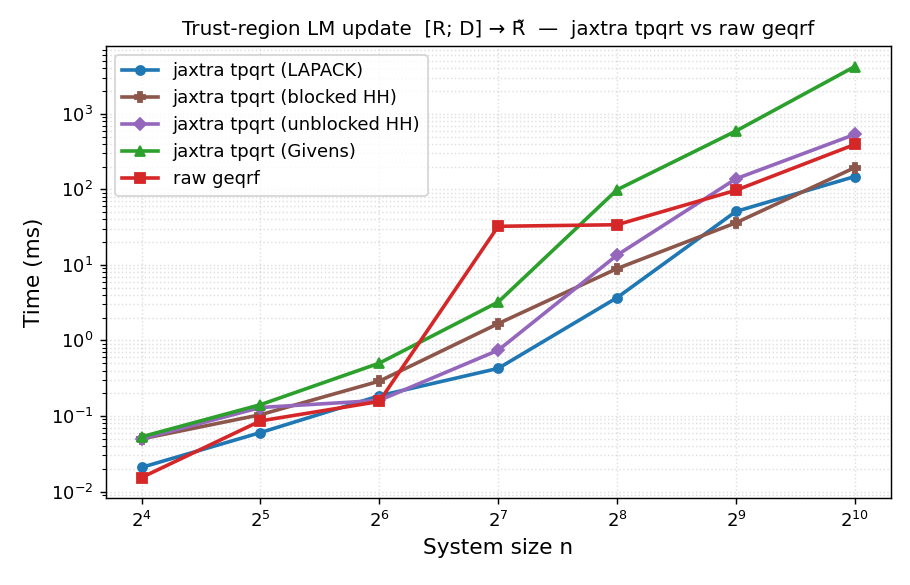
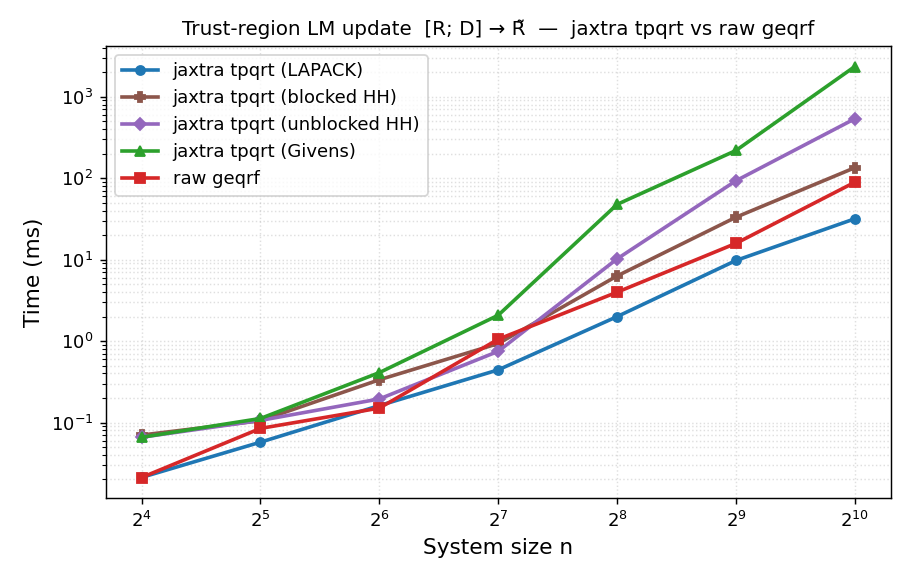
perf: rolling-window scan Givens (no dynamic_slice)
Carries the n-row ghost window and rolls it each sweep — drop the (now-zero)
eliminated bottom row, concat the incoming row on top — instead of re-slicing
it out of a padded array. This removes the per-sweep dynamic_slice/
dynamic_update_slice entirely (only a static [:-1] slice + concat remain); R is
still rotated whole with diag(R) pivots, and the initial window is the bottom
trapezoid with the rectangular top + padding streamed in.

Roughly halves the Givens time (n=1024: ~4226 -> ~2350 ms; n=512: ~592 -> ~219
ms), confirming dynamic_slice was the dominant overhead. It remains ~4x slower
than the unblocked Householder fallback and ~17x slower than blocked
Householder: each Givens sweep updates two full n x n arrays (R and the rolling
window) plus a concat, vs Householder's single B update (matvec + rank-1), and
the rotations are bandwidth-bound BLAS-1 row scalings rather than the cache- and
SIMD-friendly BLAS-2/3 of (blocked) Householder. Blocked Householder stays the
production fallback.

Claude-Session: https://claude.ai/code/session_01Aj8oNz6aLvSocZHjG7B84h

diff --git a/jaxtra/_src/lax/linalg.py b/jaxtra/_src/lax/linalg.py
@@ -683,18 +683,19 @@ def _tpqrt_pentagonal_mask(m, n, l, dtype):
 def _tpqrt_givens_2d(a, b, l):
   """Pure-JAX diagonal-sweep Givens triangularisation of ``[a; b]`` (unbatched).
 
-  Eliminates the pentagonal block ``b`` (``m`` "ghost" rows) into the upper
-  triangular ``a`` (``n`` rows) one *diagonal* at a time. In sweep ``o``, pivot
-  row ``R[j, j]`` is paired with ghost row ``j - o``: every rotation uses a
-  distinct pivot row and a distinct ghost row, so the whole sweep is a single
-  rotation of ``R`` against ``W`` shifted by ``o``. The pivot is then literally
-  R's natural diagonal ``diag(R)``, ``R`` is rotated *whole* (never sliced or
-  reordered, no gather/scatter), and only ``b`` is zero-padded and slid — a
-  contiguous ``dynamic_slice`` window into the padded ghost block.
+  Eliminates the pentagonal block ``b`` into the upper triangular ``a`` one
+  *diagonal* at a time. In sweep ``o`` the pivot row ``R[j, j]`` is paired with
+  ghost row ``j - o``; every rotation uses a distinct pivot and ghost row, so a
+  sweep is one rotation of ``R`` (whole, pivots = ``diag(R)``) against an
+  ``n``-row window of the ghost block.
 
-  Sweep ``o`` runs over ``[-(m - max(l, 1)), n - 1]``; it zeros the ``o``-th
-  diagonal of ``W`` (``W[r, r+o]``) and fills the next, which sweep ``o + 1``
-  clears, so after the last sweep ``W`` is zero.
+  Rather than re-slicing that window out of a padded array each sweep, we
+  *carry* it and roll it: the window's bottom row has just been fully
+  eliminated (it leaves as zero), so the next window is ``concat([incoming,
+  window[:-1]])`` — a static slice and a concat, no ``dynamic_slice``, gather or
+  scatter anywhere. The initial window is the bottom trapezoid of ``b``; the
+  ``incoming`` rows streamed in are its rectangular top (if any) then zero
+  padding.
 
   Eliminating a *diagonal* (each entry against its own pivot ``R[j, j]``) is the
   vectorisable step; eliminating a *column* (every entry against the single
@@ -709,25 +710,24 @@ def _tpqrt_givens_2d(a, b, l):
   R = jnp.triu(a)
   W = b * _tpqrt_pentagonal_mask(m, n, l, dtype)
 
-  # Sweep offsets o = j - r between pivot row j and ghost row r. Pad the ghost
-  # block so that "ghost row j - o for j = 0 .. n-1" is a fixed-size window:
-  # ghost index j - o ranges over [-(n-1), (n-1) - o_min].
-  o_min = -(m - max(l, 1))
-  nrounds = n - o_min
-  pad_top = n - 1                       # ghost indices down to -(n-1)
-  pad_bot = max(0, n - max(l, 1))       # ghost indices up to (n-1) - o_min
-  Wpad = jnp.zeros((pad_top + m + pad_bot, n), dtype).at[pad_top:pad_top + m].set(W)
+  # Stack the ghost block with zero padding so the rolling window starts on the
+  # bottom trapezoid and rolls upward through the rectangular top + padding.
+  pad_top = n - 1
+  pad_bot = max(0, n - max(l, 1))
+  total = pad_top + m + pad_bot
+  Wpad = jnp.zeros((total, n), dtype).at[pad_top:pad_top + m].set(W)
+  window0 = Wpad[total - n:]                       # bottom trapezoid window
+  incoming = Wpad[:total - n][::-1]                # rows streamed in, top-down
+  xs = jnp.concatenate([incoming, jnp.zeros((1, n), dtype)], 0)  # last unused
 
-  def sweep(carry, o):
-    R, Wpad = carry
-    # Ghost row paired with R row j is W[j - o]; gather as a contiguous window.
-    W_al = jax.lax.dynamic_slice(Wpad, (pad_top - o, 0), (n, n))
-    piv_R = jnp.diagonal(R)                       # R's natural diagonal
-    piv_W = jnp.diagonal(W_al)                    # W[j - o, j]
+  def sweep(carry, inc):
+    R, window = carry
+    piv_R = jnp.diagonal(R)                         # R's natural diagonal
+    piv_W = jnp.diagonal(window)                    # current ghost diagonal
     absf = jnp.abs(piv_R)
     absg = jnp.abs(piv_W)
     r = jnp.sqrt(absf * absf + absg * absg)
-    do = absg != 0                                # nothing to zero otherwise
+    do = absg != 0                                  # nothing to zero otherwise
     safe_r = jnp.where(r == 0, 1, r)
     safe_absf = jnp.where(absf == 0, 1, absf)
     phase = jnp.where(absf == 0, jnp.ones_like(piv_R),
@@ -736,13 +736,13 @@ def _tpqrt_givens_2d(a, b, l):
     s = jnp.where(do, phase * conj(piv_W) / safe_r.astype(dtype),
                   jnp.zeros_like(piv_W))
     # Unitary rotation G = [[c, s], [-conj(s), c]] zeroing piv_W against piv_R.
-    newR = c[:, None] * R + s[:, None] * W_al
-    newW = -conj(s)[:, None] * R + c[:, None] * W_al
-    Wpad = jax.lax.dynamic_update_slice(Wpad, newW, (pad_top - o, 0))
-    return (newR, Wpad), None
+    newR = c[:, None] * R + s[:, None] * window
+    newW = -conj(s)[:, None] * R + c[:, None] * window
+    # Drop the fully-eliminated bottom row, stream in the next row on top.
+    window = jnp.concatenate([inc[None], newW[:-1]], 0)
+    return (newR, window), None
 
-  offsets = o_min + jnp.arange(nrounds)
-  (R, Wpad), _ = jax.lax.scan(sweep, (R, Wpad), offsets)
+  (R, _), _ = jax.lax.scan(sweep, (R, window0), xs)
   return jnp.triu(R)
 
 
